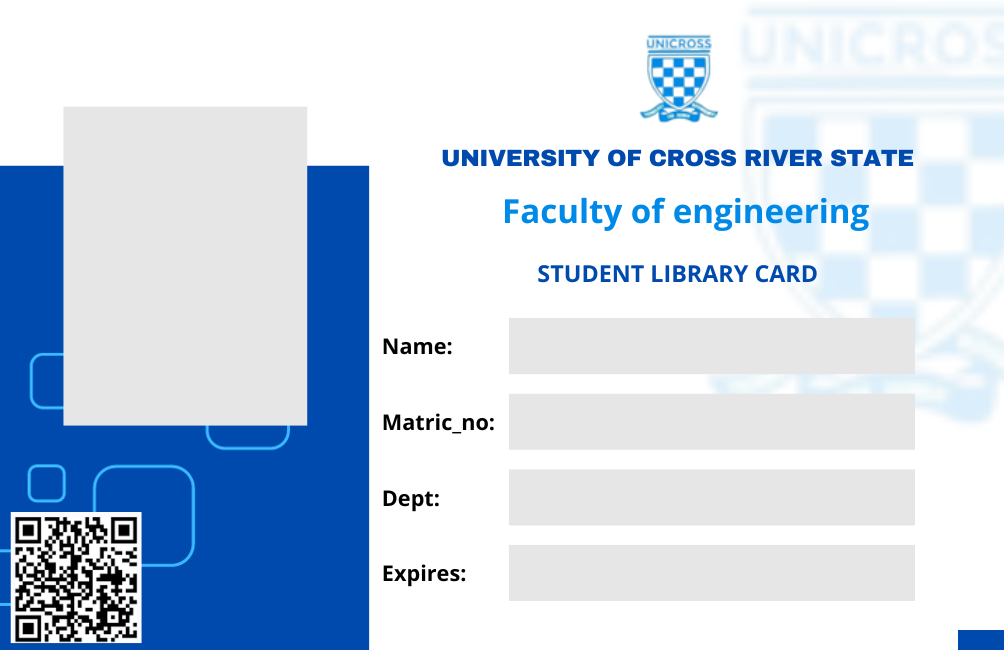
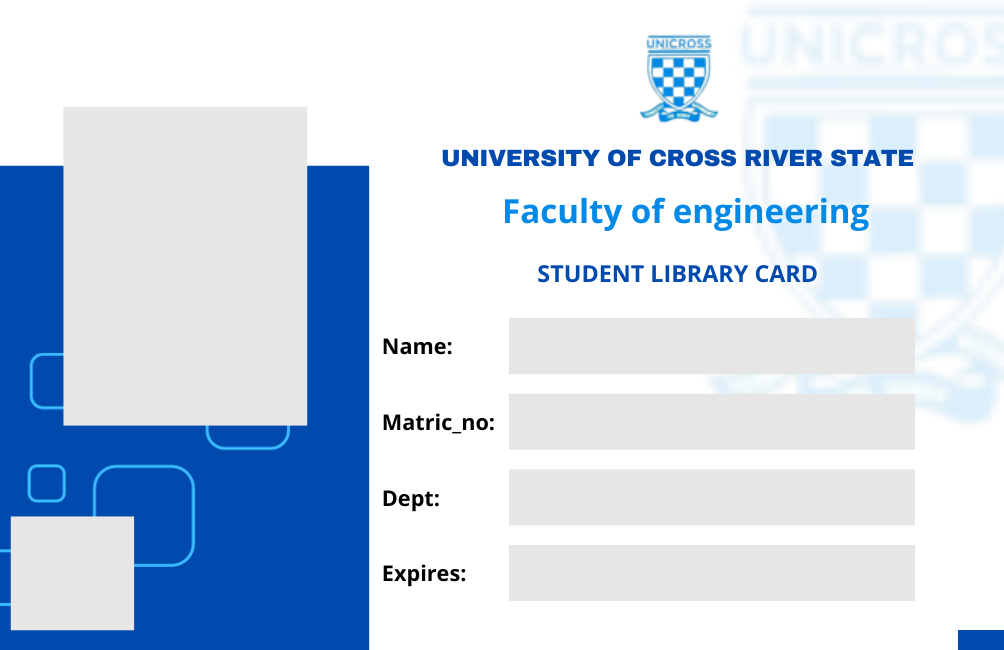
ref: added qrcode to library card

Changed region(s): [[0.0, 0.7692, 0.1544, 1.0]]

diff --git a/lms/helpers.py b/lms/helpers.py
@@ -9,6 +9,8 @@ from PIL import Image, ImageDraw, ImageFont
 from lms.encryption import decode_jwt
 from lms.models import Librarian, Student
 
+import qrcode
+
 
 # function to handle the login token
 def handle_login(token):
@@ -86,6 +88,7 @@ def generate_library_card(student_id: int) -> int:
     matric_no = student.matric_no
     department = student.department
     img_upload = student.img_upload
+    email = student.email
     expire_date = datetime.utcnow() + timedelta(days=365)
     expire_date = expire_date.strftime("%Y-%m-%d")
     
@@ -110,10 +113,19 @@ def generate_library_card(student_id: int) -> int:
     draw.text(size(44.07, 35.0), matric_no, fill=(0, 0, 0), font=font)
     draw.text(size(44.07, 41.5), department, fill=(0, 0, 0), font=font)
     draw.text(size(44.07, 48.0), expire_date, fill=(0, 0, 0), font=font)
+    
+    # Generate QR code and paste it onto the card
+    # qr_data = f"Name: {name}\nMatric No: {matric_no}\nEmail: {email}\nDepartment: {department}\nExpire Date: {expire_date}"
+    qr_data = f"{name}-{matric_no}-{department}"  # Adjust as needed for your use case
+    qr_img = generate_qr_code(qr_data)
+    qr_img = qr_img.convert("RGBA")  # Convert to RGBA to support transparency
+    qr_img = qr_img.resize(size(11.23, 10.99))  
+    card_template.paste(qr_img, size(0.89, 43.3), qr_img)
 
-    card_template.save(
-        os.path.join(current_app.root_path, "assets/images/library_card.png")
-    )
+
+    # card_template.save(
+    #     os.path.join(current_app.root_path, "assets/images/library_card.png")
+    # )
 
     image_buffer = io.BytesIO()
     card_template.save(image_buffer, format="PNG")
@@ -129,4 +141,17 @@ def size(target_width_mm:float, target_height_mm:float) -> tuple[int, int]:
     
     return target_width, target_height
  
-    
+# Function to generate a code128 barcode
+def generate_qr_code(data):
+    qr = qrcode.QRCode(
+        version=1,
+        error_correction=qrcode.constants.ERROR_CORRECT_L,
+        box_size=5,
+        border=4,
+    )
+    qr.add_data(data)
+    qr.make(fit=True)
+
+    qr_img = qr.make_image(fill_color="black", back_color="white")
+
+    return qr_img
